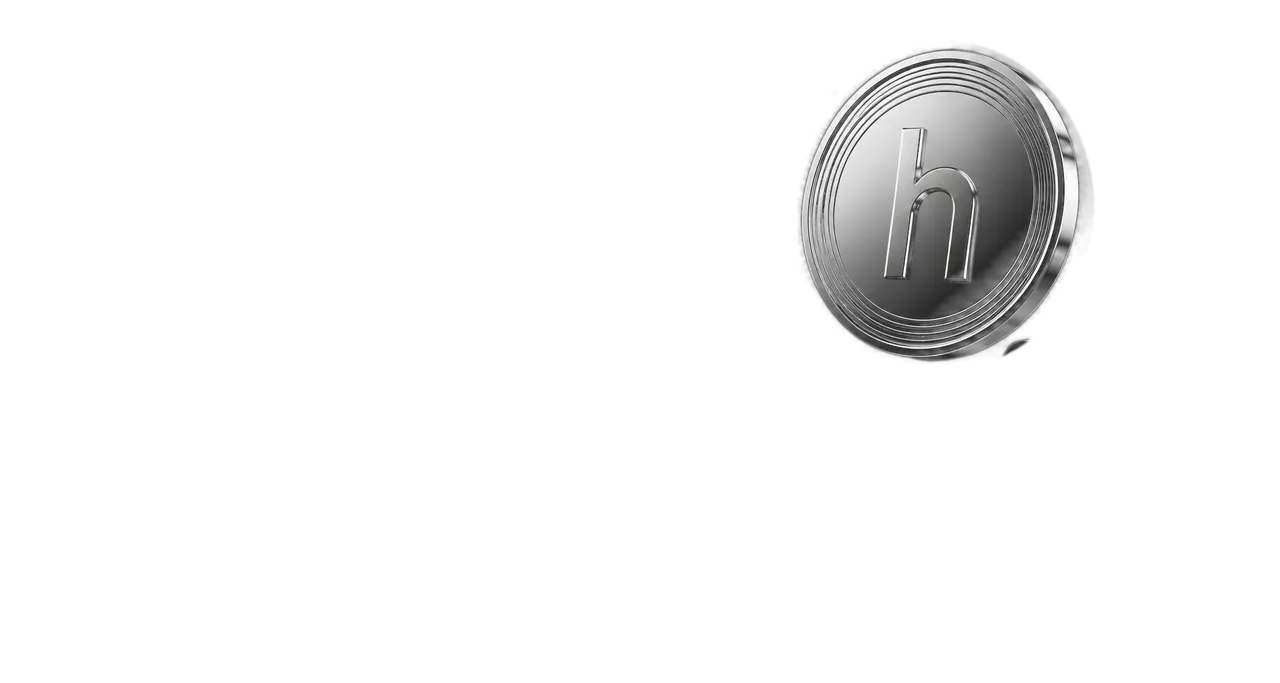
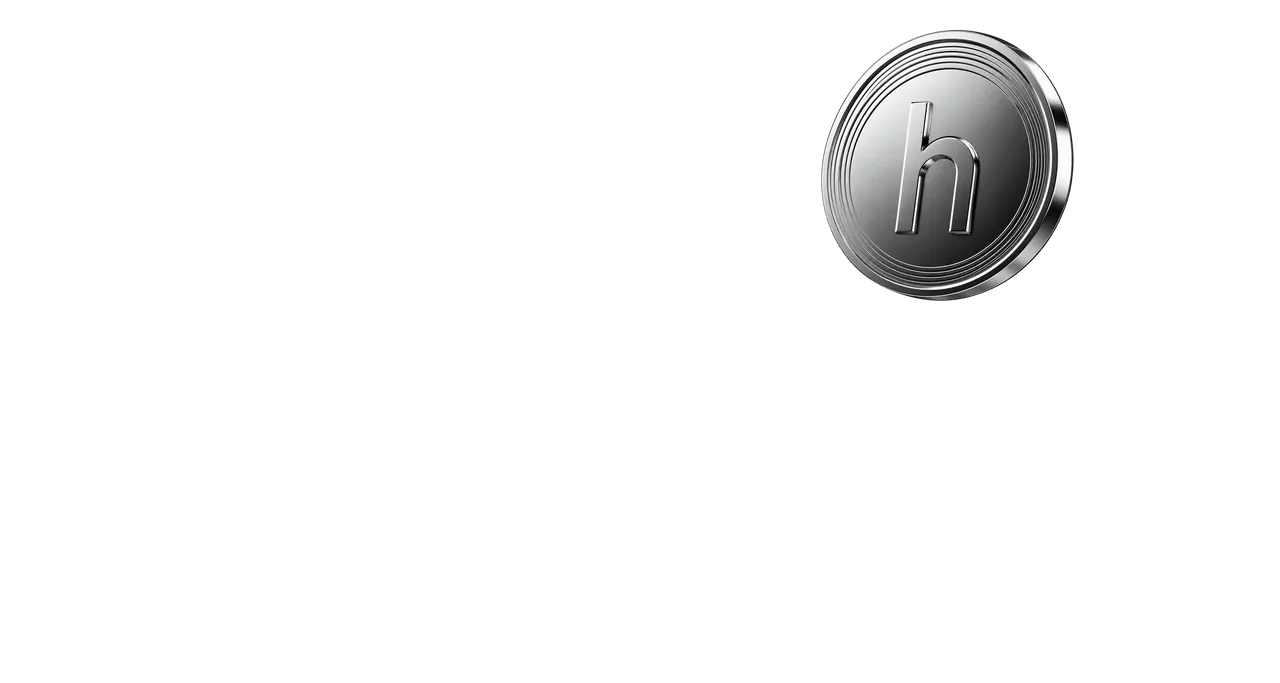
Let the coin fall into the hand instead of drifting both layers
The hand now stays put and only the coin moves: as the page scrolls it
drops toward the open hand at its own speed and stops just above the
fingertips (110px of the 1920x1024 frame, scaled like object-fit: cover).
The coin layer now uses Guillermo's coin cut-out, 10% smaller than the
coin in the original photo and set a little higher to leave room to fall.

Claude-Session: https://claude.ai/code/session_01Wrmn5AQXWBe5C5CMr3tFzB

Changed region(s): [[0.625, 0.0307, 0.875, 0.5534]]

diff --git a/web/src/styles/global.css b/web/src/styles/global.css
@@ -2040,13 +2040,10 @@ main.is-wide {
     object-position: right center;
     opacity: 0.55;
   }
-  /* --hero-scroll is the page offset in px (set by the home page script): the hand lags
-     behind the page while the coin rises away from it. */
-  .hero-layer-hand {
-    transform: translate3d(0, calc(var(--hero-scroll, 0) * 0.12px), 0);
-  }
+  /* The home page script sets --hero-coin-drop as you scroll: the coin falls into the
+     open hand and stops just above it. */
   .hero-layer-coin {
-    transform: translate3d(0, calc(var(--hero-scroll, 0) * -0.1px), 0);
+    transform: translate3d(0, var(--hero-coin-drop, 0px), 0);
   }
   /* Ink fading to transparent keeps the copy on the left clear of the photo. */
   .hero-photo::after {
